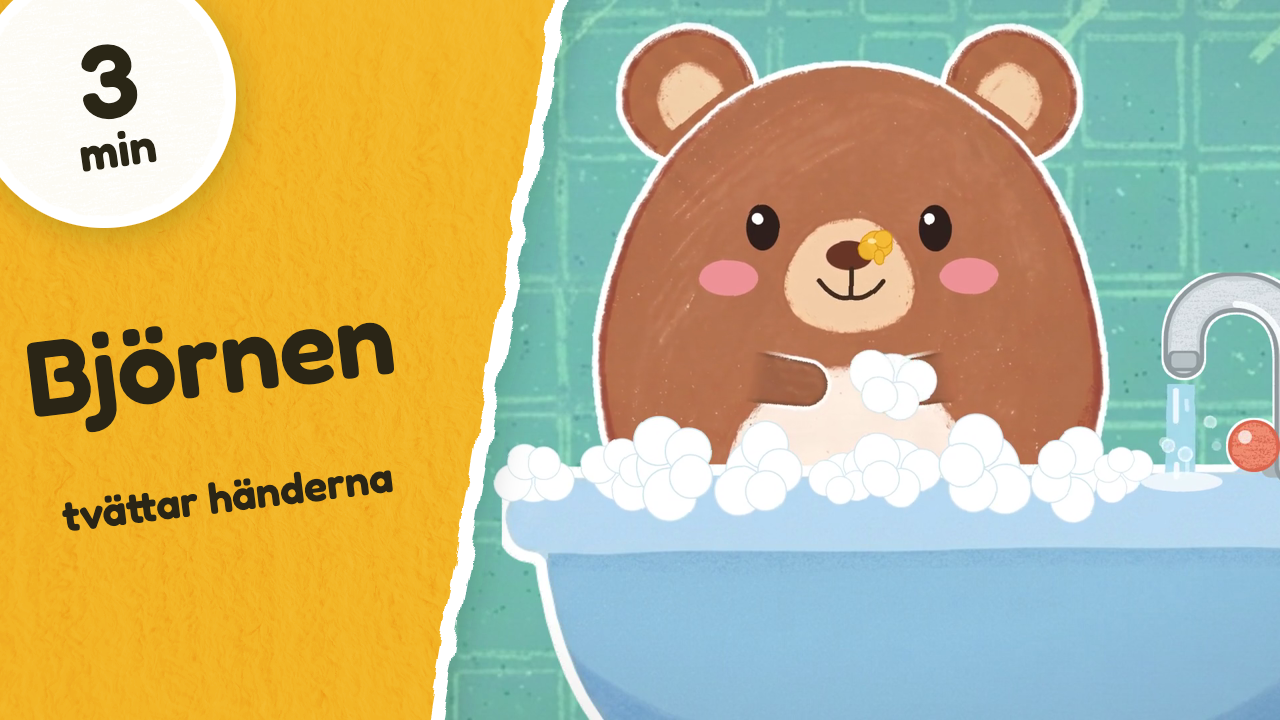
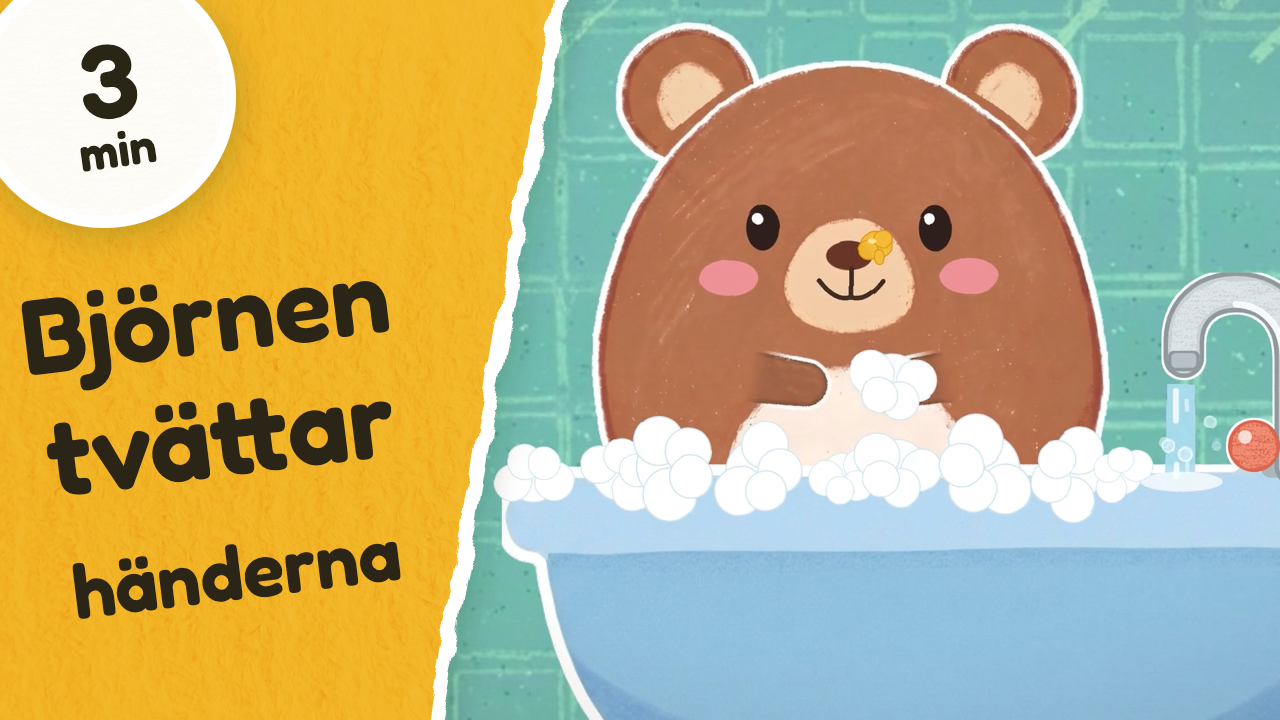
Miniatyrer: titel på tre stora rader (028, 029, 023, 026), YouTube-text och miniatyrer för 016, 026, 028, 029, 030 och 033 (016, 028, 029 live)

Changed region(s): [[0.0, 0.3972, 0.3125, 0.7333], [0.0312, 0.7333, 0.3125, 0.8556]]

diff --git a/verktyg/miniatyr.html b/verktyg/miniatyr.html
@@ -64,18 +64,30 @@ const MINIATYRER = [
     sv:{ tid:'2:38', titel:['Tittut!','vid anden'], yt:'Tittut! 🐰 | Lek tittut med kaninen på lekplatsen | lilla kritan' } },   // bara svenska än
   { id:'011', bild:'avsnitt/011-gula-helikoptern/thumbnail/miniatyr-utan-text.png', farg:'#FFD233',   // hjälten: thumbnail/hjalte/ (lejonet jublar i gula helikoptern mot blå himmel)
     sv:{ tid:'3:57', titel:['Gula','sången'], yt:'Gula sången 🚁💛 | Barnsång om färger – lejonet flyger helikopter upp till solen | Lilla Kritan' } },   // bara svenska än
+  { id:'016', bild:'avsnitt/016-blinka-lilla-stjarna/thumbnail/miniatyr-utan-text.png', farg:'#F7D154',   // filmen 0:34 (beskuren 1400×788 från 8,86): stjärnan ler med glimtar på natthimlen; stjärnans gula
+    sv:{ tid:'2:39', titel:['Blinka','lilla stjärna'], yt:'Blinka lilla stjärna ⭐🌙 | Barnvisa om stjärnan på natthimlen | Lilla Kritan' } },   // bara svenska
   { id:'015', bild:'avsnitt/015-ba-ba-vita-lamm/thumbnail/miniatyr-utan-text.png', farg:'#E05E60',
     sv:{ tid:'1:29', titel:['Bä, bä,','vita lamm'], yt:'Bä, bä, vita lamm 🐑🧦 | Barnvisa om lammet som får strumpor | Lilla Kritan' } },   // bara svenska
   { id:'014', bild:'avsnitt/014-grona-traktorn/thumbnail/miniatyr-utan-text.png', farg:'#3E9B35',
     b:{ hjalte:[1.3, 800, 531], test:'ansiktet närmare' },
     sv:{ tid:'3:37', titel:['Gröna','sången'], yt:'Gröna sången 🚜💚 | Färgsång för barn – leoparden letar grönt | Lilla Kritan' },
     en:{ tid:'3:32', titel:['Green','Song'], yt:'The Green Song 🚜💚 | Color Song for Kids – the leopard looks for green | Tiny Crayon TV' } },
+  { id:'028', bild:'avsnitt/028-leoparden-bygger-i-sanden/thumbnail/miniatyr-utan-text.png', farg:'#F2C12E',   // filmen 2:18,5 spegelvänd, ×1,08 ("Klapp, klapp … sandkaka!"): leoparden ler med handen på gula hinken bredvid två sandkakor; hinkens gula
+    sv:{ tid:'3:59', titel:['Leoparden','bygger','i sanden'], yt:'Leoparden bygger i sanden 🐆🏖 | Djuren hittar på! – hjälp leoparden att hitta spaden | Lilla Kritan' } },   // bara svenska
+  { id:'029', bild:'avsnitt/029-leoparden-plockar-applen/thumbnail/miniatyr-utan-text.png', farg:'#CF3B2E',   // filmen 1:21,9, spegelvänd ("Oj! Ett äpple på huvudet"): leoparden skrattar med blundande ögon och äpplet på huvudet, korgen bredvid; äpplets röda
+    sv:{ tid:'4:00', titel:['Leoparden','plockar','äpplen'], yt:'Leoparden plockar äpplen 🐆🍎 | Djuren hittar på! – hjälp leoparden att hitta äpplet | Lilla Kritan' } },   // bara svenska
+  { id:'033', bild:'avsnitt/033-borsta-borsta-dinosaurier/thumbnail/miniatyr-utan-text.png', farg:'#F2B526',   // filmen 2:02,5 (sista refrängen, utsnitt 1440×810 från 0,60): röda dinosaurien borstar med gula borsten och skrattar; borstens gula (kontrast mot turkosa väggen)
+    sv:{ tid:'2:29', titel:['Borsta,','dinosaurier!'], yt:'Borsta, borsta tänderna! 🦕🪥 | Barnsång – tre dinosaurier borstar tänderna | Lilla Kritan' } },   // bara svenska
+  { id:'030', bild:'avsnitt/030-borsta-borsta-gulliga-djur/thumbnail/miniatyr-utan-text.png', farg:'#EE5FA4',   // filmen 1:16,0 (refrängen "Borsta, borsta"), utsnitt ×1,25 uppe till vänster: kaninen borstar med rosa borsten och blundar glatt; borstens rosa (kontrast mot turkosa väggen)
+    sv:{ tid:'2:53', titel:['Borsta,','borsta!'], yt:'Borsta, borsta tänderna! 🪥🦷 | Barnsång – borsta med katten, kaninen och pandan | Lilla Kritan' } },   // bara svenska
   { id:'023', bild:'avsnitt/023-bjornen-tvattar-handerna/thumbnail/miniatyr-utan-text.png', farg:'#F2B526',   // filmen 1:44,5 (flyttad 210 px åt höger, väggen fyller under strimman) ("Gnugga, gnugga … ren!"): björnen ler i handfatet med skum på tassen och kranen på; honungsgult (kontrast mot turkosa väggen)
     b:{ farg:'#5B9BD5', test:'blå strimma (handfatets blå)' },
-    sv:{ tid:'3:19', titel:['Björnen','tvättar händerna'], yt:'Björnen tvättar händerna 🐻🧼 | Djuren hittar på! – hjälp björnen att hitta honungen | Lilla Kritan' } },   // bara svenska
+    sv:{ tid:'3:19', titel:['Björnen','tvättar','händerna'], yt:'Björnen tvättar händerna 🐻🧼 | Djuren hittar på! – hjälp björnen att hitta honungen | Lilla Kritan' } },   // bara svenska
   { id:'022', bild:'avsnitt/022-kaninen-ater-frukost/thumbnail/miniatyr-utan-text.png', farg:'#D95432',   // scenens bild 84 (filmen 1:27, "Oj, så mycket gott!"): kaninen ler vid bordet med bananen, smörgåsen och mjölken; rutiga dukens röda (väggens gula flöt ihop med väggen i 168 px)
     b:{ farg:'#F4BE33', test:'gul strimma (köksväggens gula)' },
     sv:{ tid:'2:56', titel:['Kaninen','äter frukost'], yt:'Kaninen äter frukost 🐰🍌 | Bilderbok för de minsta – hjälp kaninen att hitta glaset | Lilla Kritan' } },   // bara svenska
+  { id:'026', bild:'avsnitt/026-zebran-gar-och-lagger-sig/thumbnail/miniatyr-utan-text.png', farg:'#FFD84A',   // filmen 1:50,0, beskuren (crop 1300×731 vid 47,30): zebran skrattar efter tittut bakom kudden; månens och lampans gula mot den blå kvällsväggen
+    sv:{ tid:'4:07', titel:['Zebran','går och','lägger sig'], yt:'Zebran går och lägger sig 🦓🌙 | Bilderbok för de minsta – hjälp zebran att hitta nallen | Lilla Kritan' } },   // bara svenska
   { id:'024', bild:'avsnitt/024-lammet-klar-pa-sig/thumbnail/miniatyr-utan-text.png', farg:'#EE7451',   // scenens bild 151,0 (filmen 2:34), spegelvänd: lammet vinkar glatt med mössan och stövlarna; hallens korallröda vägg
     b:{ hjalte:[1.25, 787, 622], test:'ansiktet närmare' },
     sv:{ tid:'2:46', titel:['Lammet','klär på sig'], yt:'Lammet klär på sig 🐑🧦 | Bilderbok för de minsta – hjälp lammet att hitta stövlarna | Lilla Kritan' } },   // bara svenska

diff --git a/verktyg/miniatyr.js b/verktyg/miniatyr.js
@@ -7,7 +7,7 @@
 //   <script src="…/verktyg/miniatyr.js"></script>
 //   await miniatyr.strimma(lager.overst, {
 //     farg: '#3E9B35',               // avsnittets färg (strimman); kritstrukturen (miniatyr-textur.png) läggs ovanpå
-//     titel: ['Gröna', 'sången'],    // två rader: färgordet stort, resten mindre (krymps om de är för breda)
+//     titel: ['Gröna', 'sången'],    // två rader: färgordet stort, resten mindre (krymps om de är för breda); tre ord ger tre lika stora rader
 //     kanal: '',                     // standard: inget kanalnamn (YouTube visar det under bilden); 'lilla kritan' om det ska stå
 //     cirkel: ['4', 'min'],          // videons längd i hela minuter (miniatyr.html räknar fram den ur tid); [] = ingen cirkel
 //   });
@@ -81,8 +81,14 @@ async function strimma(parent, { farg, titel, kanal = '', cirkel = [] }) {
 
   // titeln och kanalnamnet, lutade som strimmans kant
   const t = el('g', { transform: 'rotate(-7 222 453)', filter: ljus ? '' : 'url(#mi-skugga-text)' }, g);
-  text(titel[0], 222, 394, 172, 370, fg, t);
-  text(titel[1], 222, 512, 110, 333, fg, t);
+  if (titel.length === 3) {   // tre rader, alla stora: för långa titlar som annars blir små på andra raden (Sanna 2026-11-13)
+    text(titel[0], 222, 352, 132, 370, fg, t);
+    text(titel[1], 222, 476, 132, 350, fg, t);
+    text(titel[2], 222, 600, 132, 330, fg, t);
+  } else {
+    text(titel[0], 222, 394, 172, 370, fg, t);
+    text(titel[1], 222, 512, 110, 333, fg, t);
+  }
   if (kanal) text(kanal, 196, 664, 40, 300, fg, g, { opacity: 0.95, transform: 'rotate(-7 196 664)' });
   return g;
 }

diff --git a/avsnitt/028-leoparden-bygger-i-sanden/youtube.md b/avsnitt/028-leoparden-bygger-i-sanden/youtube.md
@@ -1,0 +1,58 @@
+# YouTube – Avsnitt 028 Leoparden bygger i sanden
+
+**Live 13 nov 2026: https://youtu.be/Frmw_b7umAg** (spellistor: lilla kritan – alla avsnitt, Vardagsberättelser).
+
+Kanal: **lilla kritan**. Fil: `film/avsnitt-028.mp4` (3:59, slutrenderad 13 nov). Miniatyr: `thumbnail/miniatyr-strimma.png` (färgstrimman i hinkens gula, titeln på tre rader, gul text mörk, vit cirkel "4 min"; hjälten är filmens bild 2:18,5, spegelvänd och ×1,08, "Klapp, klapp … sandkaka!": leoparden ler med handen på gula hinken, sandkakorna under strimman; utan text `thumbnail/miniatyr-utan-text.png`). Ställ in **Ja, det är gjort för barn**.
+
+En bilderbok i serien *Djuren hittar på!* (introt säger seriens namn). Ingen sång: Malin berättar och leoparden svarar med små spinn och fniss. Titel och beskrivning kallar det därför aldrig en sång.
+
+Kapitlen är Malins repliker i den färdiga filmen (whisper på `film/avsnitt-028.mp4`, 2026-11-13), avrundat nedåt, minst 10 s per kapitel. Korta repliker ligger ihop med kapitlet före ("Ska du bygga i sanden?" i hej-kapitlet, "Kan du också hoppa?" i vågkapitlet). Ändras filmen: mät om.
+
+## Titel
+
+```
+Leoparden bygger i sanden 🐆🏖 | Djuren hittar på! – hjälp leoparden att hitta spaden | Lilla Kritan
+```
+
+## Beskrivning
+
+```
+Leoparden är på stranden och vill bygga i sanden. Men oj då, sanden rasar! Sanden vill visst inte stå. Då ritar kritan en gul hink. Varsågod, leoparden! Tack! Oj, hinken hamnar på huvudet, en hinkhatt! Sedan bygger leoparden sandkakor: klapp, klapp … sandkaka! Men var är spaden? Leoparden vet inte var. Kan du hjälpa leoparden att hitta den? Ja, där, bakom hinken! Tre sandkakor! Sedan hoppar leoparden över de små vågorna, och kritan ritar en badring. Plask, plask, nu badar leoparden!
+
+En bilderbok i vaxkrita för de minsta, ungefär 1–3 år. Berättaren pratar med leoparden, och leoparden svarar med glada spinn och fniss. Säg tack, klappa med, hjälp leoparden att hitta spaden, hoppa över vågorna och vinka hej då!
+
+0:00 Djuren hittar på! Kritan ritar
+0:17 Oj, en leopard! Hej, leoparden!
+0:35 Oj då, sanden rasar
+0:49 Kritan ritar en hink
+1:06 Ska vi säga tack? Tack!
+1:18 Oj! Hinken på huvudet!
+1:33 Klapp, klapp … sandkaka!
+1:52 Oj, spaden då? Kan du hjälpa leoparden?
+2:08 Ja, där, bakom hinken! Tre sandkakor
+2:35 Små vågor – hopp!
+2:49 Vattnet är så stort
+3:04 Kritan ritar en badring
+3:30 Plask, plask! Leoparden badar
+3:42 Hej då, leoparden!
+
+Lilla Kritan är tecknade sånger och berättelser i vaxkrita för små barn: en sak i taget och mycket upprepning.
+
+#bilderbok #barnprogram #lillakritan
+```
+
+Inga CC BY-ljud: alla ljud i 028 är CC0 (tass, landa-mjuk: freesound/Openverse), ElevenLabs (spinn-gullig, spinn-fniss, sand, hink-dunk, tindra, krita-ritar m.fl.) eller äldre egna ljud och mixar (glitter, klapp, plask, plupp, swoosh, vagor, skogsljud, bilderbok-introt). `puff`, `gardsljud` och visselpiporna (CC BY) används inte. Ingen ljudkredit behövs.
+
+## Taggar
+
+```
+bilderbok, bilderbok för barn, saga för barn, berättelse för barn, högläsning, tecknat för barn, barnprogram, svenska barnprogram, för de minsta, småbarn, 1 år, 2 år, 3 år, leopard, leoparden, strand, stranden, sand, bygga i sanden, sandkaka, sandkakor, hink, spade, vågor, hoppa, badring, bada, sommar, säga tack, varsågod, klappa, vardag, hjälpa till, peka, interaktivt för barn, djuren hittar på, lilla kritan
+```
+
+## Inställningar
+
+- Målgrupp: Ja, det är gjort för barn
+- Spellistor: **lilla kritan – alla avsnitt** och **Vardagsberättelser**
+- Kategori: samma som 020
+- Språk: svenska
+- Synlighet: Offentlig

diff --git a/avsnitt/029-leoparden-plockar-applen/youtube.md b/avsnitt/029-leoparden-plockar-applen/youtube.md
@@ -1,0 +1,57 @@
+# YouTube – Avsnitt 029 Leoparden plockar äpplen
+
+**Live 13 nov 2026: https://youtu.be/tIbOVrBrcok** (spellistor: lilla kritan – alla avsnitt, Vardagsberättelser). Miniatyren har titeln på tre rader.
+
+Kanal: **lilla kritan**. Fil: `film/avsnitt-029.mp4` (4:00, renderad 13 nov 10:06; sista sekunden svart som i 023 och 024). Miniatyr: `thumbnail/miniatyr-strimma.png` (färgstrimman i äpplets röda, "4 min"; hjälten är filmens bild 1:21,9, spegelvänd: leoparden skrattar med blundande ögon och äpplet på huvudet, korgen bredvid, utan text `thumbnail/miniatyr-utan-text.png`). Ställ in **Ja, det är gjort för barn**.
+
+En bilderbok utan sång ur serien Djuren hittar på! (introt säger det): Malin berättar och leoparden svarar med spinn och fniss. Titel och beskrivning kallar det därför aldrig en sång.
+
+Kapitlen är Malins repliker i den färdiga filmen (whisper large-v3-turbo på `film/avsnitt-029.mp4`, 2026-11-13), avrundat nedåt, minst 10 s per kapitel, och kollade mot bilder ur filmen. Filmen har pallen (kritan ritar en pall, upp på pallen) som inte står i `rost.txt`. Ändras filmen: mät om.
+
+## Titel
+
+```
+Leoparden plockar äpplen 🐆🍎 | Djuren hittar på! – hjälp leoparden att hitta äpplet | Lilla Kritan
+```
+
+## Beskrivning
+
+```
+Hej, leoparden! Titta, så många äpplen! Men oj då, äpplena ramlar ner och rullar iväg. Då ritar kritan en korg. Varsågod, leoparden! Tack! Oj, ett äpple på huvudet … och i korgen! Men äpplena sitter högt upp, och leoparden når inte. Kritan ritar en pall. Hopp, hopp, upp på pallen! Först ett äpple. Vips … i korgen! Och ett till. Vips … i korgen! Men ett äpple är kvar, och leoparden vet inte var. Kan du hjälpa leoparden att hitta det? Ja, där, bakom trädet! Nu är korgen full. Sedan klättrar leoparden upp i trädet. Var är leoparden? Tittut!
+
+En bilderbok i vaxkrita för de minsta, ungefär 1–3 år, ur serien Djuren hittar på! Berättaren pratar med leoparden, och leoparden svarar med glada spinn och fniss. Säg tack, säg vips med äpplena, hjälp leoparden att hitta det sista äpplet och lek tittut i trädet!
+
+0:00 Kritan ritar – vad blir det?
+0:17 Oj, en leopard! Hej, leoparden!
+0:36 Oj då, äpplet rullar iväg
+0:51 Kritan ritar en korg – tack!
+1:17 Oj, ett äpple på huvudet!
+1:32 Äpplena sitter högt upp
+1:42 Kritan ritar en pall
+2:09 Vips … i korgen!
+2:30 Ett äpple är kvar – var är det?
+2:48 Ja, bakom trädet! Nu är korgen full
+3:15 Leoparden klättrar upp i trädet
+3:29 Tittut!
+3:44 Hej då, leoparden!
+
+Lilla Kritan är tecknade sånger och berättelser i vaxkrita för små barn: en sak i taget och mycket upprepning.
+
+#bilderbok #barnprogram #lillakritan
+```
+
+Inga CC BY-ljud: ljuden i 029 är CC0 (landa-mjuk, prassel-buske, prassel-lov, tass: freesound/Openverse), ElevenLabs (spinn-gullig, krita-ritar, rull, korg m.fl.) eller egna mixar (skogsljud, fågelkvitter). Ingen ljudkredit behövs. (`apple-studs` saknar källa i `assets/ljud/effekter/README.md`; kolla om det är osäkert.)
+
+## Taggar
+
+```
+bilderbok, bilderbok för barn, saga för barn, berättelse för barn, högläsning, tecknat för barn, barnprogram, svenska barnprogram, för de minsta, småbarn, 1 år, 2 år, 3 år, leopard, leoparden, äpple, äpplen, plocka äpplen, äppelträd, korg, pall, tittut, klättra, säga tack, varsågod, vardag, hjälpa till, peka, interaktivt för barn, djuren hittar på, lilla kritan
+```
+
+## Inställningar
+
+- Målgrupp: Ja, det är gjort för barn
+- Spellistor: **lilla kritan – alla avsnitt** och **Vardagsberättelser**
+- Kategori: samma som 020
+- Språk: svenska
+- Synlighet: Offentlig

diff --git a/avsnitt/016-blinka-lilla-stjarna/youtube.md b/avsnitt/016-blinka-lilla-stjarna/youtube.md
@@ -1,0 +1,55 @@
+# YouTube – Avsnitt 016 Blinka lilla stjärna
+
+**Live 13 nov 2026: https://youtu.be/lYuuZQYO4WY** (spellistor: lilla kritan – alla avsnitt, Barnsånger för de minsta).
+
+Kanal: **lilla kritan**. Fil: `film/avsnitt-016-grovklipp.mp4` (2:39, ihopsatt 13 nov efter feedbackrundan "016 klar"; trots namnet är det den färdiga filmen). Miniatyr: `thumbnail/miniatyr-strimma.png` (färgstrimman, stjärngul, "3 min"; hjälten är filmens bild 0:34, beskuren: stjärnan ler med glimtar på natthimlen, utan text `thumbnail/miniatyr-utan-text.png`). Ställ in **Ja, det är gjort för barn**.
+
+En traditionell barnvisa (fri från upphovsrätt), sjungen hela vägen, med två instrumentala delar: molnet i mellanspelet och de dansande stjärnorna i svansen.
+
+Kapitlen är mätta i den färdiga filmen (whisper på `film/avsnitt-016-grovklipp.mp4` och bilder varannan sekund, 2026-11-13): sången börjar 0:33 (introt 9 s + sångtid), avrundat nedåt, minst 10 s per kapitel. Kritan ritar från 0:09, men kapitlet står på 0:10 så att det första blir 10 s. Ändras filmen: mät om.
+
+## Titel
+
+```
+Blinka lilla stjärna ⭐🌙 | Barnvisa om stjärnan på natthimlen | Lilla Kritan
+```
+
+## Beskrivning
+
+```
+Det är kväll. Kritan ritar en stjärna, och den hamnar högt uppe på natthimlen. Hunden och nyckelpigan bäddar en filt på kullen, med nallen, kudden och vällingflaskan. Varsågod! Tack! Sedan tittar de upp och sjunger: Blinka lilla stjärna där. De blinkar åt stjärnan, och stjärnan blinkar tillbaka. Oj, ett moln glider förbi – var är stjärnan? Vänta lite … där är den! Sedan gäspar de, lägger sig på filten och somnar, en i taget. Godnatt!
+
+Den gamla barnvisan med enkla bilder för de minsta, ungefär 1–3 år. Blinka med ögonen, peka upp på stjärnan, leta efter den bakom molnet och gäspa med!
+
+0:00 Lilla Kritan
+0:10 Kritan ritar en stjärna
+0:20 Hunden och nyckelpigan på kullen
+0:33 Blinka lilla stjärna – sjung med!
+0:48 Lik en diamant i skyn
+1:06 Ett moln – var är stjärnan?
+1:23 Där är den!
+1:33 Blinka igen – dags att sova
+1:54 Alla somnar
+2:05 Stjärnorna dansar
+2:19 Godnatt, lilla stjärna
+
+Lilla Kritan är tecknade sånger och berättelser i vaxkrita för små barn: en sak i taget och mycket upprepning.
+
+#barnsång #barnvisor #lillakritan
+```
+
+Inga CC BY-ljud: effektljuden är ElevenLabs eller CC0 (`prassel-tyg`, `sus`, `syrsor`), rösterna ElevenLabs. Ingen ljudkredit behövs.
+
+## Taggar
+
+```
+barnsång, barnsånger, barnvisor, sånger för barn, svenska barnsånger, blinka lilla stjärna, blinka lilla stjärna där, barnvisa, traditionell barnvisa, godnattsång, sova, natt, stjärna, stjärnor, måne, moln, natthimmel, hund, hunden, nyckelpiga, nyckelpigan, nalle, picknick, filt, blinka, gäspa, säga tack, varsågod, tecknat för barn, barnprogram, för de minsta, småbarn, 1 år, 2 år, 3 år, sjung med, lilla kritan
+```
+
+## Inställningar
+
+- Målgrupp: Ja, det är gjort för barn
+- Spellistor: **lilla kritan – alla avsnitt** och **Barnsånger för de minsta** (en sång, som 015)
+- Kategori: samma som 014
+- Språk: svenska
+- Synlighet: Offentlig

diff --git a/avsnitt/026-zebran-gar-och-lagger-sig/youtube.md b/avsnitt/026-zebran-gar-och-lagger-sig/youtube.md
@@ -1,0 +1,57 @@
+# YouTube – Avsnitt 026 Zebran går och lägger sig
+
+Kanal: **lilla kritan**. Fil: `film/avsnitt-026.mp4` (4:07). Miniatyr: `thumbnail/miniatyr-strimma.png` (färgstrimman i månens och lampans gula mot den blå kvällsväggen, "4 min"; hjälten är filmens bild 1:50,0, beskuren: zebran skrattar efter tittut bakom kudden, utan text `thumbnail/miniatyr-utan-text.png`). Ställ in **Ja, det är gjort för barn**.
+
+En bilderbok utan sång: Malin berättar och zebran svarar med gnägg, öron och ansikte. Titel och beskrivning kallar det därför aldrig en sång.
+
+Kapitlen är Malins repliker i den färdiga filmen (whisper på `film/avsnitt-026.mp4`, 2026-11-13), avrundat nedåt, minst 10 s per kapitel. Ändras filmen: mät om.
+
+## Titel
+
+```
+Zebran går och lägger sig 🦓🌙 | Bilderbok för de minsta – hjälp zebran att hitta nallen | Lilla Kritan
+```
+
+## Beskrivning
+
+```
+Det är kväll nu. Titta, månen! Men zebran vill inte lägga sig. Då ritar kritan en kudde. Varsågod, zebran! Tack! Zebran får lite vatten, och sedan blir det tittut bakom den mjuka kudden. Var är zebran? Tittut! Oj, en gäspning! Zebran säger god natt till lampan och till månen. Men var är nallen? Zebran vet inte var. Kan du hjälpa zebran att hitta den? Till sist ritar kritan ett täcke, och zebran somnar gott.
+
+En bilderbok i vaxkrita för de minsta, ungefär 1–3 år. Berättaren pratar med zebran, och zebran svarar med glada gnägg och fniss. Säg tack, lek tittut, säg god natt, hjälp zebran att hitta nallen och gäspa med!
+
+0:00 Kritan ritar – vad blir det?
+0:23 Hej, zebran! Titta, månen!
+0:37 Zebran vill inte lägga sig
+0:52 Kritan ritar en kudde
+1:07 Tack! Gott med vatten
+1:34 Mjuk kudde – tittut!
+2:04 Gäsp … god natt, lampan och månen
+2:30 Var är nallen?
+2:48 Där är nallen!
+3:04 Kan du också gäspa?
+3:19 Inget täcke – kritan ritar igen
+3:33 Ett täcke! Tack!
+3:46 Hej då, zebran!
+
+Lilla Kritan är tecknade sånger och berättelser i vaxkrita för små barn: en sak i taget och mycket upprepning.
+
+Ljud: Cotton Thud by rainial.co (freesound.org), CC BY 4.0
+
+#bilderbok #barnprogram #lillakritan
+```
+
+Ljudkredit: `puff` (zebran landar i sängen) är CC BY 4.0, därav raden i beskrivningen. Övriga ljud är CC0 (lampa-klick, hemmaljud, syrsor, prassel-tyg, hopp-mjuk: freesound/Openverse), ElevenLabs (gnagg-gullig, trav, krita-ritar m.fl.), egna mixar eller den befintliga vaggvisan.
+
+## Taggar
+
+```
+bilderbok, bilderbok för barn, saga för barn, godnattsaga, berättelse för barn, högläsning, tecknat för barn, barnprogram, svenska barnprogram, för de minsta, småbarn, 1 år, 2 år, 3 år, zebra, zebran, gå och lägga sig, sova, läggdags, god natt, kudde, täcke, nalle, gosedjur, månen, lampan, gäspa, tittut, säga tack, varsågod, vardag, hjälpa till, peka, interaktivt för barn, lilla kritan
+```
+
+## Inställningar
+
+- Målgrupp: Ja, det är gjort för barn
+- Spellistor: **lilla kritan – alla avsnitt** och **Vardagsberättelser** (bilderböckerna, som 020 och 024)
+- Kategori: samma som 020
+- Språk: svenska
+- Synlighet: Offentlig

diff --git a/avsnitt/033-borsta-borsta-dinosaurier/youtube.md b/avsnitt/033-borsta-borsta-dinosaurier/youtube.md
@@ -1,0 +1,49 @@
+# YouTube – Avsnitt 033 Borsta, borsta (dinosaurier)
+
+Kanal: **lilla kritan**. Fil: `film/avsnitt-033.mp4` (2:28, runda 7, 1920×1080, 30 fps). Miniatyr: `thumbnail/miniatyr-strimma.png` (färgstrimman i borstens gula, mörk text, vit cirkel "2 min"; hjälten är filmens bild 2:02,5, utsnitt 1440×810 från y 60: röda dinosaurien skrattar och borstar med gula borsten i sista refrängen; utan text `thumbnail/miniatyr-utan-text.png`). Ställ in **Ja, det är gjort för barn**.
+
+Fjärde temat i borstasången (förlagan är 030). En sång, så titeln och beskrivningen kallar det en barnsång.
+
+Kapitlen är sångens radtider i `rader.txt` + 8,6 s (introt 9,0 s, övertoning 0,4 s i `film/satt-ihop.sh`), kollade med whisper på `film/avsnitt-033.mp4` och mot bilder ur filmen 2026-11-13, avrundat nedåt, minst 10 s per kapitel. Det första kapitlet tar med öppningen ("Nu ska vi borsta tänderna!" börjar 0:08,7) så att det blir minst 10 s. Dansmellanspelet (2:06, ca 4 s) ligger ihop med "Var är tänderna?". Ändras filmen: mät om.
+
+Ingen kredit behövs: ljuden i scenen (`skrubb`, `tindra-3`/`4`, `plopp`, `plupp`, `hopp-mjuk`) och i introt (`skrrrrt-kort`, `skrrrrt-lang`, `swoosh`, `landa-mjuk`, `plopp`) är ElevenLabs, CC0 eller egna. Inga dinoläten i filmen, och `puff` eller andra CC BY-ljud används inte.
+
+## Titel
+
+```
+Borsta, borsta tänderna! 🦕🪥 | Barnsång – tre dinosaurier borstar tänderna | Lilla Kritan
+```
+
+## Beskrivning
+
+```
+Nu ska vi borsta tänderna! Här kommer lila dinon. Hej, lila dinon! Gapa stort! Borsta, borsta tänderna: borsta uppe, borsta nere – en gång till! Rena tänder, hurra! Sedan kommer röda dinon och blå dinon, och var och en får sin egen tandborste som flyger fram med glitter. Till sist borstar alla tre tillsammans och dansar. Var är tänderna? Där är de! Hej då!
+
+En barnsång för de minsta, ungefär 1–3 år, att sjunga när det är dags att borsta tänderna. Gapa stort, peka på tänderna uppe och nere och borsta med!
+
+0:00 Lilla Kritan – nu ska vi borsta tänderna!
+0:19 Här kommer lila dinon – gapa stort!
+0:53 Här kommer röda dinon
+1:24 Här kommer blå dinon
+1:56 Alla borstar tänderna
+2:06 Dansa! Var är tänderna?
+2:17 Hej då!
+
+Lilla Kritan är tecknade sånger och berättelser i vaxkrita för små barn: en sak i taget och mycket upprepning.
+
+#barnsång #borstatänderna #lillakritan
+```
+
+## Taggar
+
+```
+barnsång, barnsånger, sånger för barn, svenska barnsånger, borsta tänderna, borsta borsta, tandborstning, tandborste, tänder, rena tänder, tandborstsång, borstsång, gapa stort, uppe och nere, dinosaurie, dinosaurier, dino, lila, röd, blå, färger, dansa, kvällsrutin, morgonrutin, vardag, tecknat för barn, barnprogram, för de minsta, småbarn, 1 år, 2 år, 3 år, sjung med, lilla kritan
+```
+
+## Inställningar
+
+- Målgrupp: Ja, det är gjort för barn
+- Spellistor: **lilla kritan – alla avsnitt** och **Barnsånger för de minsta**
+- Kategori: samma som 014
+- Språk: svenska
+- Synlighet: Offentlig

diff --git a/avsnitt/030-borsta-borsta-gulliga-djur/youtube.md b/avsnitt/030-borsta-borsta-gulliga-djur/youtube.md
@@ -1,0 +1,50 @@
+# YouTube – Avsnitt 030 Borsta, borsta (gulliga djur)
+
+Kanal: **lilla kritan**. Fil: `film/avsnitt-030.mp4` (2:53, runda 11 från 12 nov kväll, 1920×1080, 30 fps). Miniatyr: `thumbnail/miniatyr-strimma.png` (färgstrimman, tandborstens rosa, "3 min"; hjälten är filmens bild 1:16,0, utsnitt ×1,25 uppe till vänster: kaninen blundar glatt och borstar med den rosa borsten; utan text `thumbnail/miniatyr-utan-text.png`). Ställ in **Ja, det är gjort för barn**.
+
+En sång (borstasången, `format/borstasang.md`), ingen bilderbok: texten kallar den sång.
+
+Kapitlen är sångtiden i `rader.txt` + 8,6 s (introt 9,0 s, övertoning 0,4 s, se `film/satt-ihop.sh`), kollade med whisper på `film/avsnitt-030.mp4` 2026-11-13 och mot bilder ur filmen. Avrundat nedåt, minst 10 s per kapitel. Badrummet tonar in på 0:08,6, men kapitlet står på 0:10 så att det första blir 10 s. Frågan (2:22) och dansslutet (2:30) är ett kapitel, eftersom frågan bara är 8 s. Ändras filmen: mät om.
+
+Inga CC BY-ljud: kattens, kaninens och pandans ljud, `skrubb`, `plopp` och `tindra` är ElevenLabs, `hopp-mjuk` och `landa-mjuk` CC0, kritljuden (`skrrrrt`) och `swoosh` står utan CC BY-not i `assets/ljud/effekter/README.md`. Ingen ljudkredit behövs.
+
+## Titel
+
+```
+Borsta, borsta tänderna! 🪥🦷 | Barnsång – borsta med katten, kaninen och pandan | Lilla Kritan
+```
+
+## Beskrivning
+
+```
+Nu ska vi borsta tänderna! Tandkrämen kommer på borstarna, och borstarna hoppar ner i muggen. Här kommer katten – hej, katten! Gapa stort! Borsta, borsta tänderna: borsta uppe, borsta nere, en gång till … rena tänder! Hurra! Sedan är det kaninens tur, och oj, lite skum hamnar på nosen! Och sist pandan. Till slut borstar alla tre tillsammans. Var är tänderna? Där är de! Hej då – och så dansar alla, till och med tandborstarna och tuben.
+
+En enkel barnsång i vaxkrita för de minsta, ungefär 1–3 år. Gapa stort, peka på tänderna, borsta uppe och nere och dansa med!
+
+0:00 Lilla Kritan
+0:10 Nu ska vi borsta tänderna!
+0:24 Här kommer katten – gapa stort!
+0:57 Här kommer kaninen
+1:30 Här kommer pandan
+2:01 Alla borstar tänderna!
+2:11 Dansa med!
+2:22 Var är tänderna? Hej då och dans
+
+Lilla Kritan är tecknade sånger och berättelser i vaxkrita för små barn: en sak i taget och mycket upprepning.
+
+#barnsång #borstatänderna #lillakritan
+```
+
+## Taggar
+
+```
+barnsång, barnsånger, sånger för barn, svenska barnsånger, borsta tänderna, borsta borsta, tandborste, tandborstning, tänder, tandkräm, rena tänder, gapa stort, katt, katten, kanin, kaninen, panda, pandan, djur, vardag, kvällsrutin, morgonrutin, dansa, sjung med, tecknat för barn, barnprogram, för de minsta, småbarn, 1 år, 2 år, 3 år, lilla kritan
+```
+
+## Inställningar
+
+- Målgrupp: Ja, det är gjort för barn
+- Spellistor: **lilla kritan – alla avsnitt** och **Barnsånger för de minsta**
+- Kategori: samma som 014
+- Språk: svenska
+- Synlighet: Offentlig
